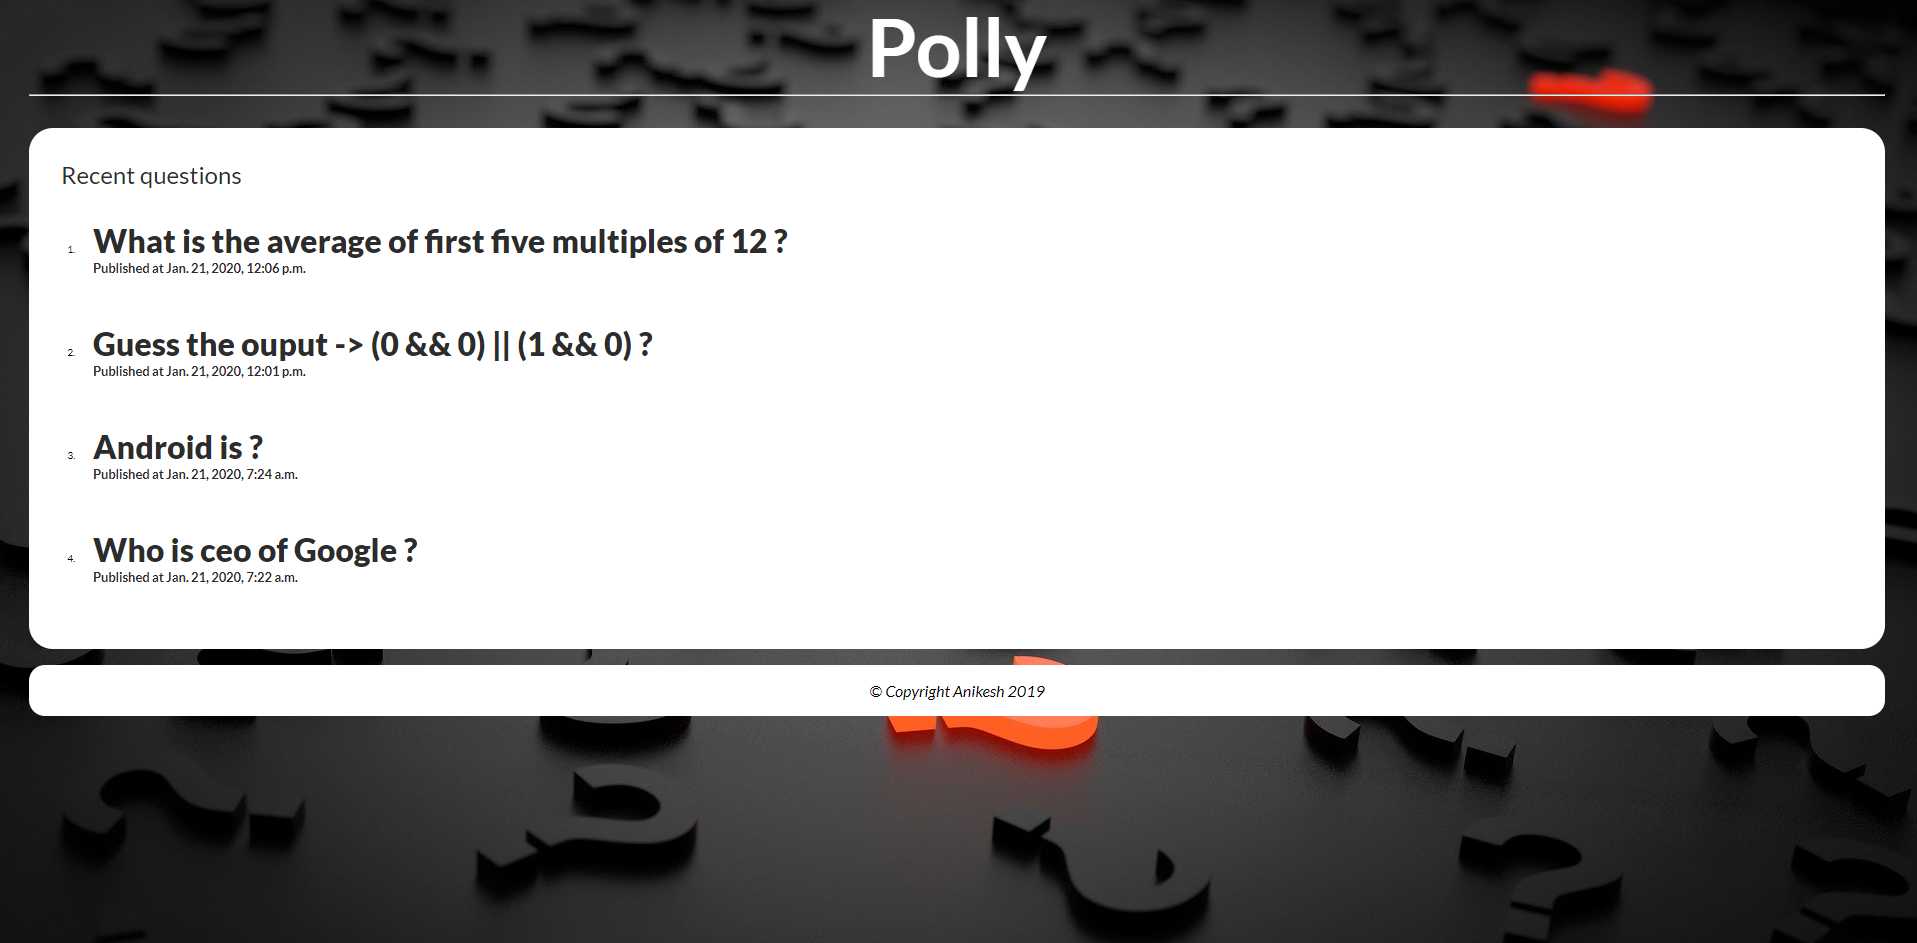
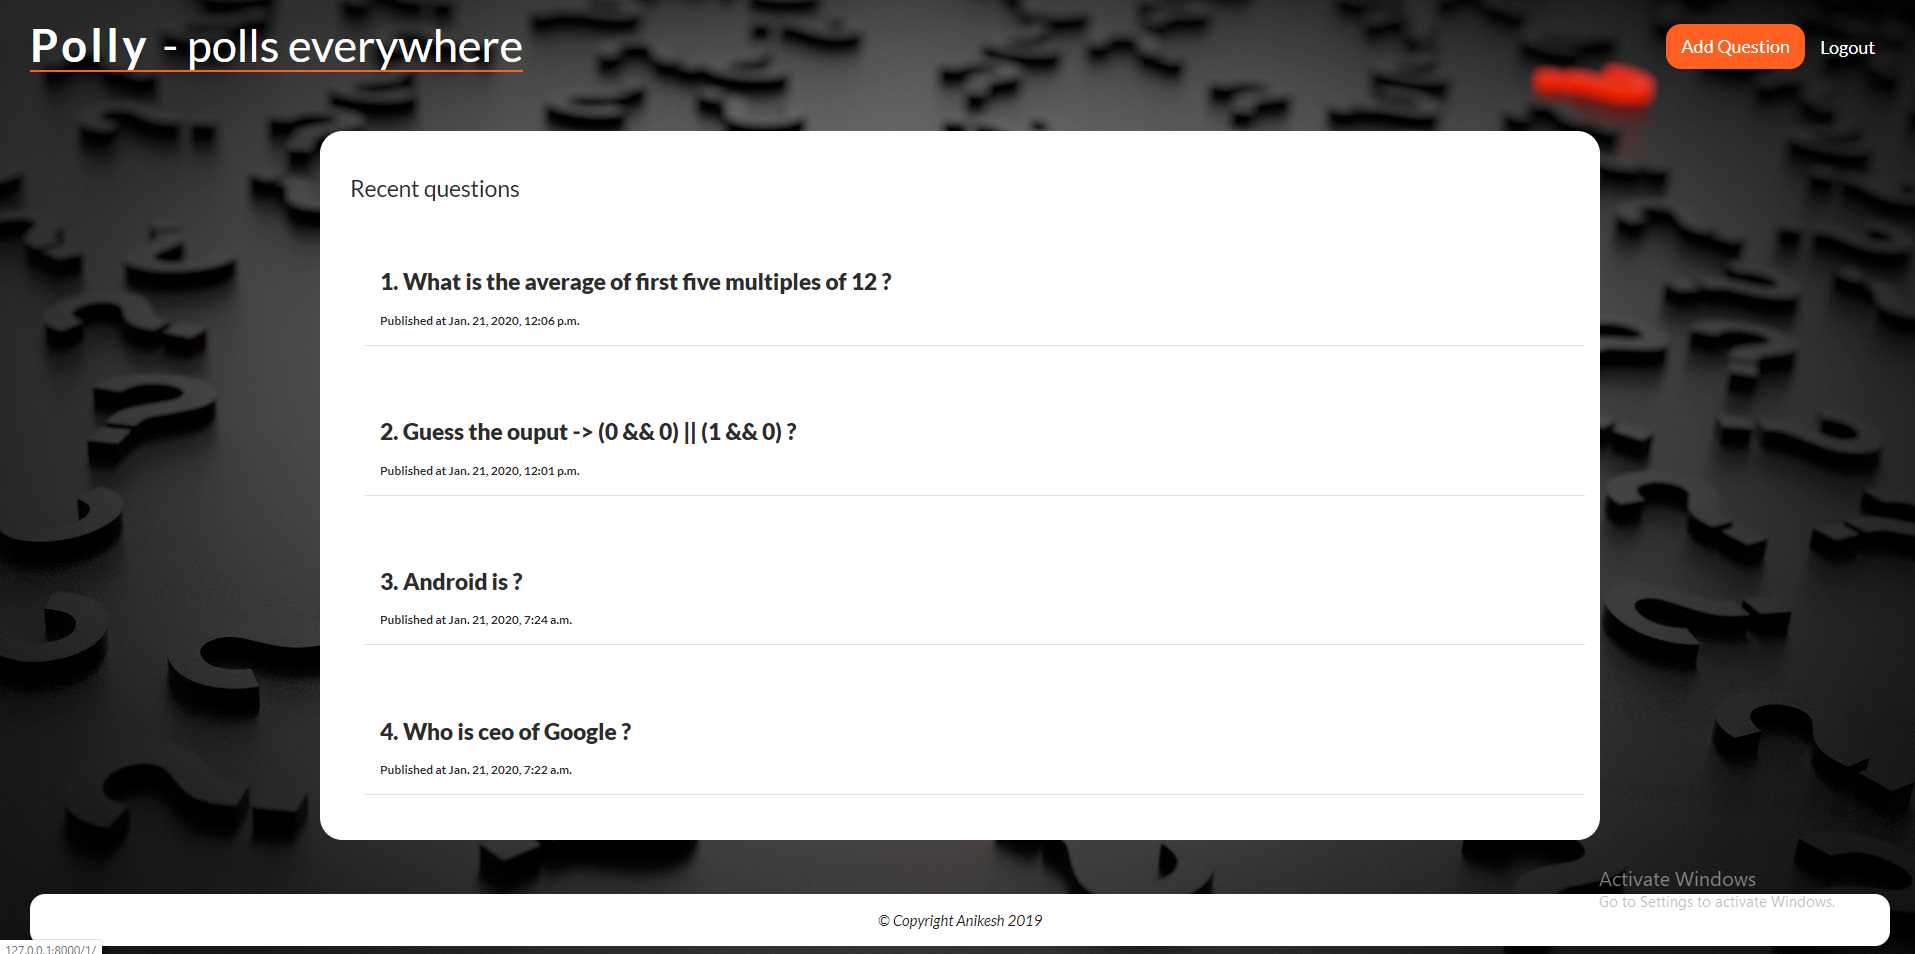
Authentication Section Complete

diff --git a/templates/auth.html b/templates/auth.html
@@ -42,24 +42,24 @@
         {% csrf_token %}
         <div class="row">
             <div class="input-field col s6">
-            <input placeholder="Placeholder" id="first_name" name='first_name' type="text" class="validate">
-            <label for="first_name">First Name</label>
+                <input placeholder="Placeholder" id="first_name" name='first_name' type="text" class="validate">
+                <label for="first_name">First Name</label>
             </div>
             <div class="input-field col s6">
-            <input id="last_name" type="text" id='last_name' class="validate">
-            <label for="last_name">Last Name</label>
+                <input name="last_name" type="text" id='last_name' class="validate">
+                <label for="last_name">Last Name</label>
             </div>
         </div>
         <div class="row">
             <div class="input-field col s12">
-            <input id="email" name='email' type="email" class="validate">
-            <label for="email">Email</label>
+                <input id="email" name='email' type="email" class="validate">
+                <label for="email">Email</label>
             </div>
         </div>
         <div class="row">
             <div class="input-field col s12">
-            <input id="password" name='password' type="password" class="validate">
-            <label for="password">Password</label>
+                <input id="password" name='password' type="password" class="validate">
+                <label for="password">Password</label>
             </div>
         </div>
         <div class="row">

diff --git a/templates/base.html b/templates/base.html
@@ -21,7 +21,11 @@
         <nav class='nav'>
             <ul class='nav__list'>
                 <li class='nav__item waves-effect'> Add Question </li>
-                <li id='loginBtn' class='nav__item waves-effect'> Login </li>
+                {% if user.is_authenticated %}
+                    <li id='logoutBtn' class='nav__item waves-effect'> Logout </li>
+                {% else %}
+                    <li id='loginBtn' class='nav__item waves-effect'> Login </li>
+                {% endif %}
             </ul>
         </nav>
     </header>

diff --git a/static/script/script.js b/static/script/script.js
@@ -1,6 +1,10 @@
 
-
+document.getElementById('logoutBtn').addEventListener('click', () => {
+    window.location.pathname = '/auth/logout'
+    console.log('Logout')
+})
 
 document.getElementById('loginBtn').addEventListener('click', () => {
     window.location.pathname = '/auth'
+    console.log('Login')
 })

diff --git a/auth_app/views.py b/auth_app/views.py
@@ -5,12 +5,15 @@ from django.contrib.auth import authenticate, login, logout, get_user_model
 def auth(request):
     return render(request, 'auth.html')
 
-def login(request):
+def login_handler(request):
     if request.POST:
         email = request.POST['email']
         password = request.POST['password']
         print(email, password)
-        user = authenticate(request, email=email, password=password)
+        user = authenticate(request, username=email, password=password)
+        if user is not None:
+            login(request, user)
+            return redirect('/')
         print(user)
     return redirect('auth')
 
@@ -18,15 +21,20 @@ def login(request):
 def signup(request):
     if request.POST:
         data = request.POST
+        print(data)
         first_name = data['first_name']
         last_name = data['last_name']
         email = data['email']
         password = data['password']
         print(request.POST)
-        if get_user_model().objects.create_user(f"{first_name} {last_name}", email, password) is not None:
+        user = get_user_model().objects.create_user(f"{first_name}", email, password)
+        if user is not None:
+            user.first_name = first_name
+            user.last_name = last_name
+            user.save()
             return redirect('/')
     return redirect('auth')
 
-def logout(request):
+def logout_handler(request):
     logout(request)
-    return redirect('/auth')
+    return redirect('auth')

diff --git a/polls/views.py b/polls/views.py
@@ -1,23 +1,25 @@
-from django.shortcuts import render, get_object_or_404
+from django.shortcuts import render, get_object_or_404, redirect
 from django.http import HttpResponse, Http404, HttpResponseRedirect
 from .models import *
 from django.views import generic
 from django.urls import reverse
 # Create your views here.
 
-# def index(request):
-#     questions = Question.objects.order_by('-pub_date')
-#     context = {
-#         'questions': questions
-#     }
-#     return render(request, 'index.html', context)
+def index(request):
+    if not request.user.is_authenticated:
+        return redirect('/auth')
+    questions = Question.objects.order_by('-pub_date')
+    context = {
+        'questions': questions
+    }
+    return render(request, 'index.html', context)
 
-class IndexView(generic.ListView):
-    template_name = 'index.html'
-    context_object_name = 'questions'
+# class IndexView(generic.ListView):
+#     template_name = 'index.html'
+#     context_object_name = 'questions'
 
-    def get_queryset(self):
-        return Question.objects.order_by('-pub_date')[:5]
+#     def get_queryset(self):
+#         return Question.objects.order_by('-pub_date')[:5]
 
 # def detail(request, question_id): 
 #     question = get_object_or_404(Question, pk = question_id)

diff --git a/polls/urls.py b/polls/urls.py
@@ -3,7 +3,7 @@ from django.conf import settings
 from .views import *
 
 urlpatterns = [
-    path('', IndexView.as_view(), name='index'),
+    path('', index, name='index'),
     path('<int:pk>/', DetailView.as_view(), name='detail'),
     path('<int:pk>/results/', results, name='results'),
     path('<int:question_id>/vote/', vote, name='vote')

diff --git a/auth_app/urls.py b/auth_app/urls.py
@@ -3,7 +3,7 @@ from .views import *
 
 urlpatterns = [
     path('', auth, name='auth'),
-    path('login', login, name='login'),
+    path('login', login_handler, name='login'),
     path('signup', signup, name='signup'),
-    path('logout', logout, name='logout')
+    path('logout', logout_handler, name='logout')
 ]

diff --git a/README.md b/README.md
@@ -1,2 +1,8 @@
 # Polly - Polls everywhere
+
+#### Home
 ![Home](https://raw.githubusercontent.com/anonymousgrp/polly_django/master/screenshots/home.png)
+
+
+#### Authentication
+![Home](https://raw.githubusercontent.com/anonymousgrp/polly_django/master/screenshots/login.png)
